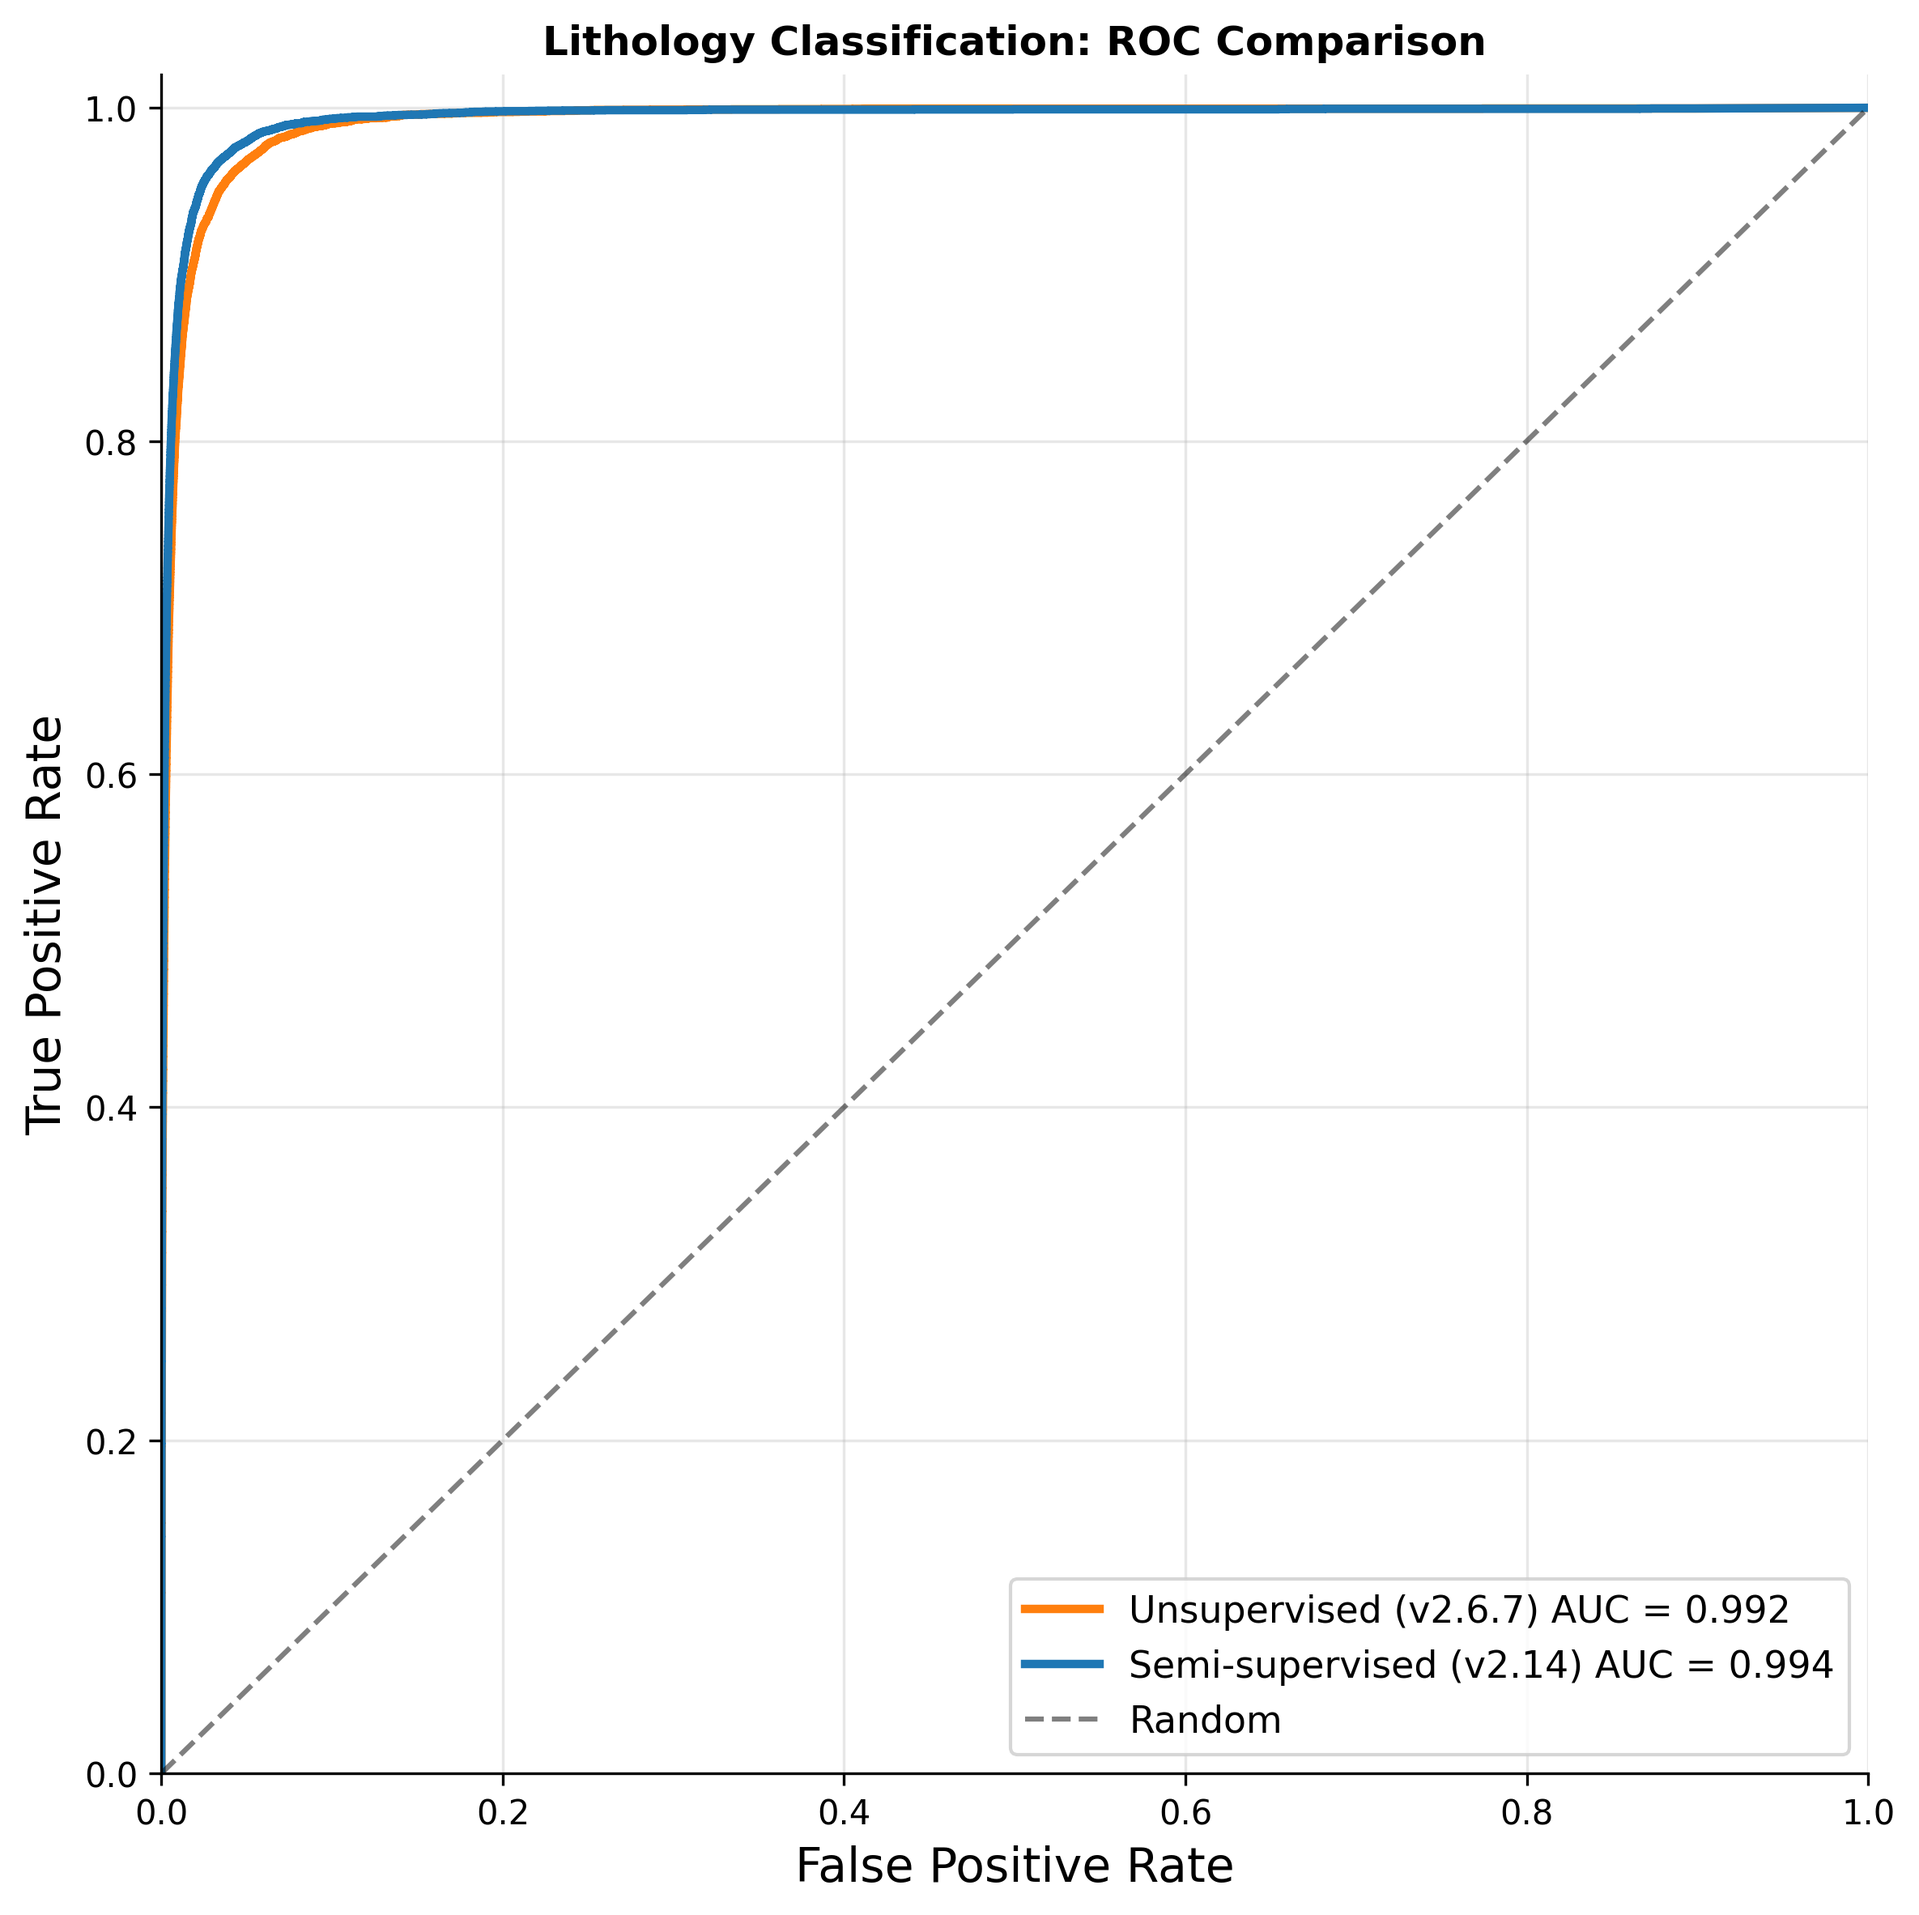
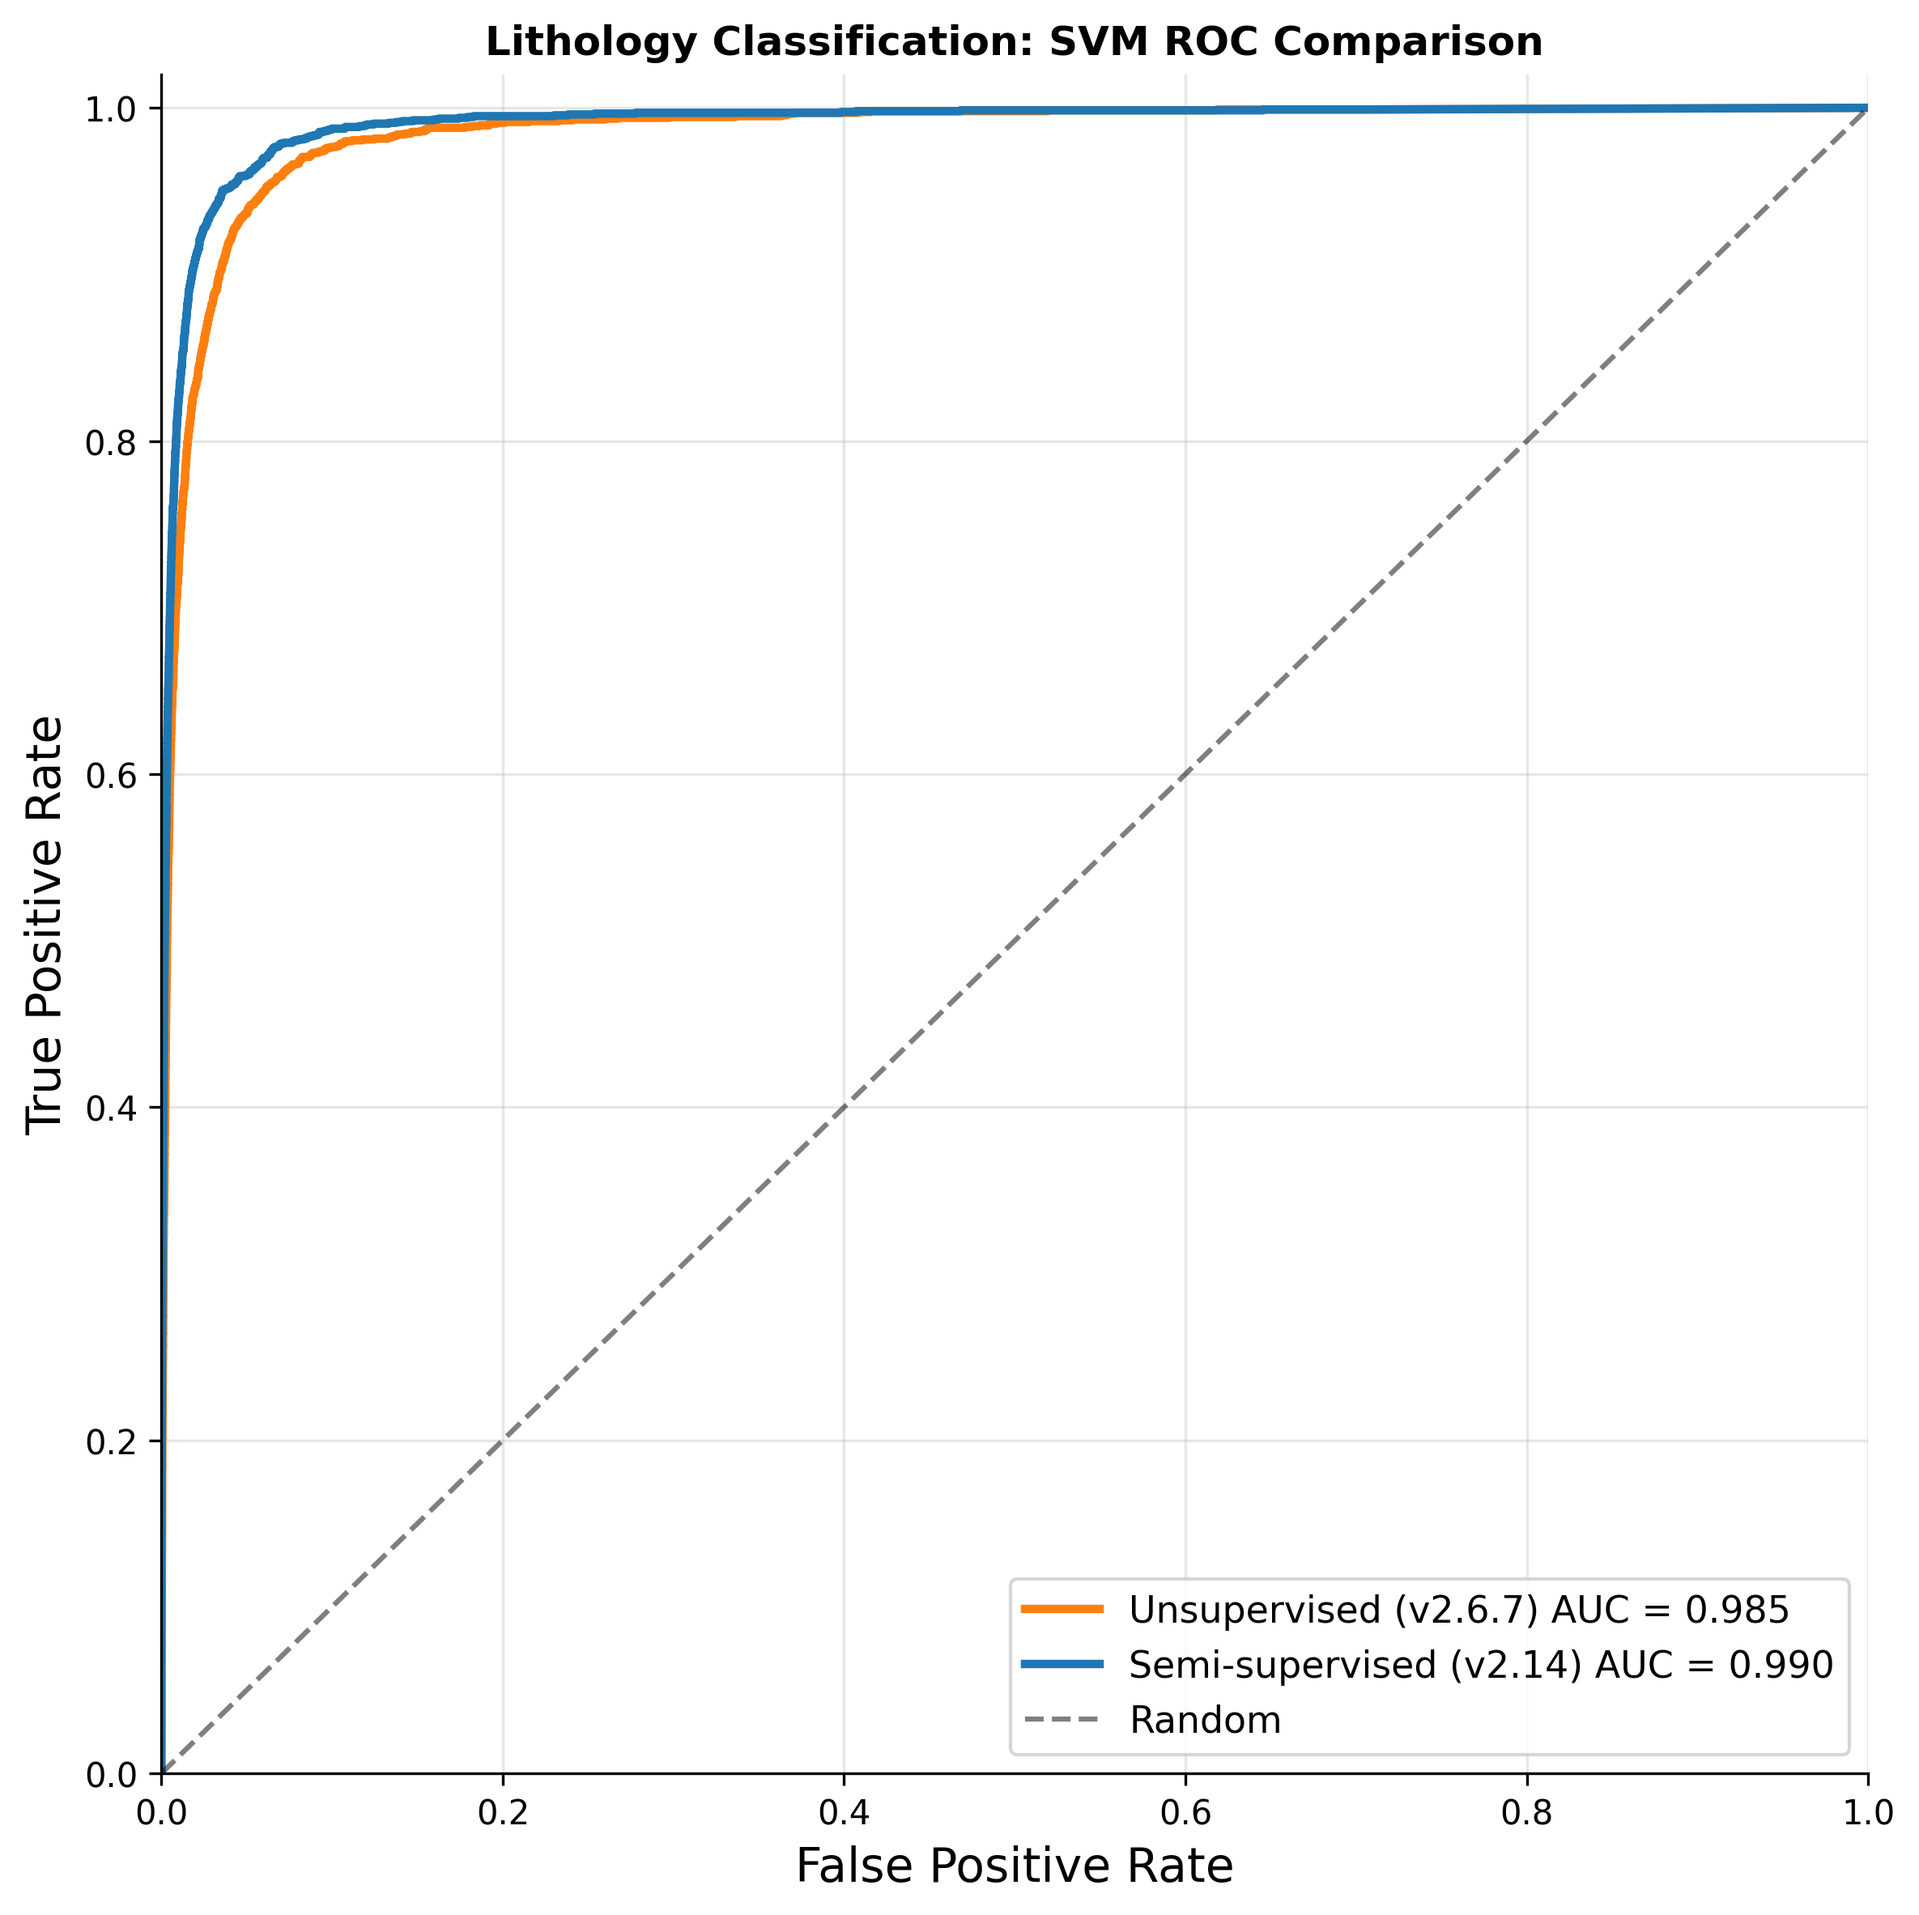
Switch ROC figure from CatBoost to SVM for lithology classification

Changed region(s): [[0.0624, 0.0, 0.8118, 0.4013], [0.9055, 0.8334, 0.9367, 0.8643]]

diff --git a/scripts/generate_figures.py b/scripts/generate_figures.py
@@ -188,10 +188,11 @@ def fig_reconstruction_scatter(X_scaled, pred_unsup, pred_semisup, save_path=Non
 
 def fig_roc_comparison(emb_unsup, emb_semisup, labels, n_classes, 
                        max_samples=50000, save_path=None):
-    """Create fair ROC comparison using same classifier on both embeddings."""
+    """Create fair ROC comparison using SVM on both embeddings."""
     from sklearn.metrics import roc_curve, auc
-    from sklearn.preprocessing import label_binarize
-    from catboost import CatBoostClassifier
+    from sklearn.preprocessing import label_binarize, StandardScaler
+    from sklearn.svm import SVC
+    from sklearn.model_selection import train_test_split
     
     if len(labels) > max_samples:
         np.random.seed(42)
@@ -200,28 +201,42 @@ def fig_roc_comparison(emb_unsup, emb_semisup, labels, n_classes,
         emb_semisup = emb_semisup[idx]
         labels = labels[idx]
     
-    n = len(labels)
-    n_train = int(0.8 * n)
+    # Train/test split
+    X_unsup_train, X_unsup_test, y_train, y_test = train_test_split(
+        emb_unsup, labels, test_size=0.2, random_state=42
+    )
+    X_semisup_train, X_semisup_test, _, _ = train_test_split(
+        emb_semisup, labels, test_size=0.2, random_state=42
+    )
     
-    print("Training CatBoost on unsupervised embeddings...")
-    clf_unsup = CatBoostClassifier(iterations=500, verbose=False, random_state=42)
-    clf_unsup.fit(emb_unsup[:n_train], labels[:n_train])
+    # Scale embeddings
+    scaler_unsup = StandardScaler()
+    X_unsup_train = scaler_unsup.fit_transform(X_unsup_train)
+    X_unsup_test = scaler_unsup.transform(X_unsup_test)
     
-    print("Training CatBoost on semi-supervised embeddings...")
-    clf_semisup = CatBoostClassifier(iterations=500, verbose=False, random_state=42)
-    clf_semisup.fit(emb_semisup[:n_train], labels[:n_train])
+    scaler_semisup = StandardScaler()
+    X_semisup_train = scaler_semisup.fit_transform(X_semisup_train)
+    X_semisup_test = scaler_semisup.transform(X_semisup_test)
     
-    prob_unsup = clf_unsup.predict_proba(emb_unsup[n_train:])
-    prob_semisup = clf_semisup.predict_proba(emb_semisup[n_train:])
+    print("Training SVM on unsupervised embeddings...")
+    svm_unsup = SVC(kernel='rbf', C=1.0, probability=True, random_state=42)
+    svm_unsup.fit(X_unsup_train, y_train)
     
-    y_test = labels[n_train:]
+    print("Training SVM on semi-supervised embeddings...")
+    svm_semisup = SVC(kernel='rbf', C=1.0, probability=True, random_state=42)
+    svm_semisup.fit(X_semisup_train, y_train)
+    
+    prob_unsup = svm_unsup.predict_proba(X_unsup_test)
+    prob_semisup = svm_semisup.predict_proba(X_semisup_test)
+    
     y_test_bin = label_binarize(y_test, classes=range(n_classes))
     
+    # Handle class mismatch (SVM may not see all classes in training)
     prob_unsup_full = np.zeros((len(y_test), n_classes))
     prob_semisup_full = np.zeros((len(y_test), n_classes))
-    for i, c in enumerate(clf_unsup.classes_):
+    for i, c in enumerate(svm_unsup.classes_):
         prob_unsup_full[:, c] = prob_unsup[:, i]
-    for i, c in enumerate(clf_semisup.classes_):
+    for i, c in enumerate(svm_semisup.classes_):
         prob_semisup_full[:, c] = prob_semisup[:, i]
     
     fpr_unsup, tpr_unsup, _ = roc_curve(y_test_bin.ravel(), prob_unsup_full.ravel())
@@ -240,7 +255,7 @@ def fig_roc_comparison(emb_unsup, emb_semisup, labels, n_classes,
     
     ax.set_xlabel('False Positive Rate', fontsize=14)
     ax.set_ylabel('True Positive Rate', fontsize=14)
-    ax.set_title('Lithology Classification: ROC Comparison', fontsize=12, fontweight='bold')
+    ax.set_title('Lithology Classification: SVM ROC Comparison', fontsize=12, fontweight='bold')
     ax.legend(loc='lower right', fontsize=11)
     ax.set_xlim([0, 1])
     ax.set_ylim([0, 1.02])
